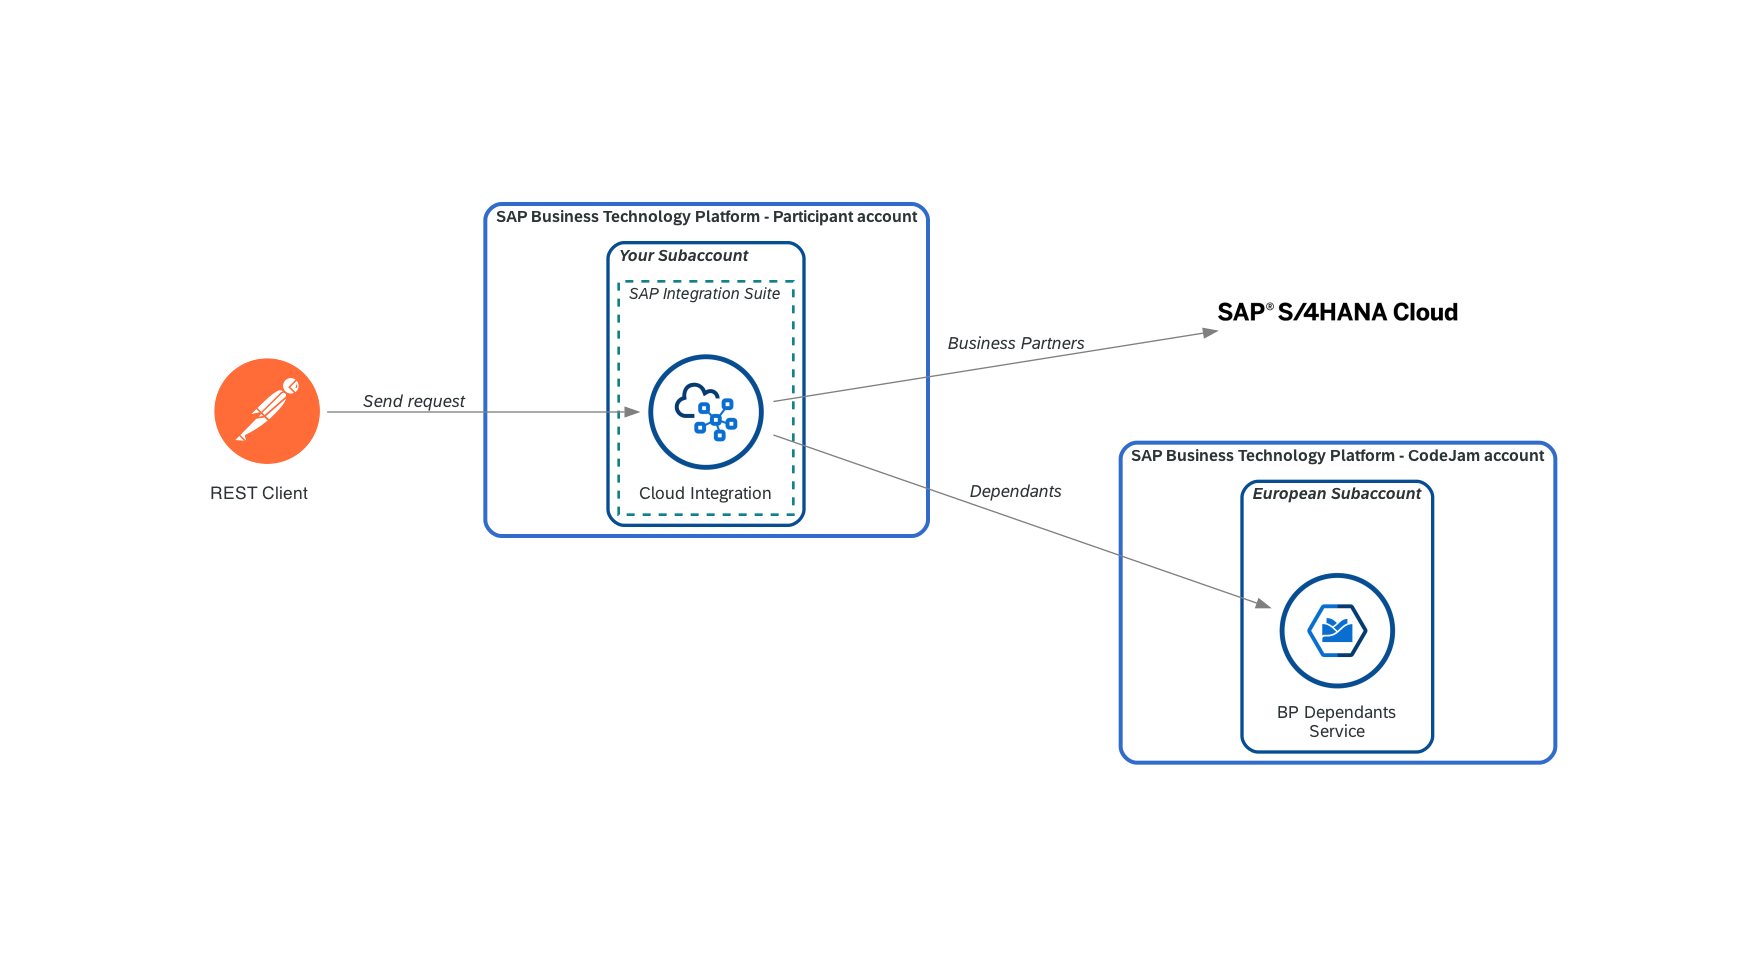
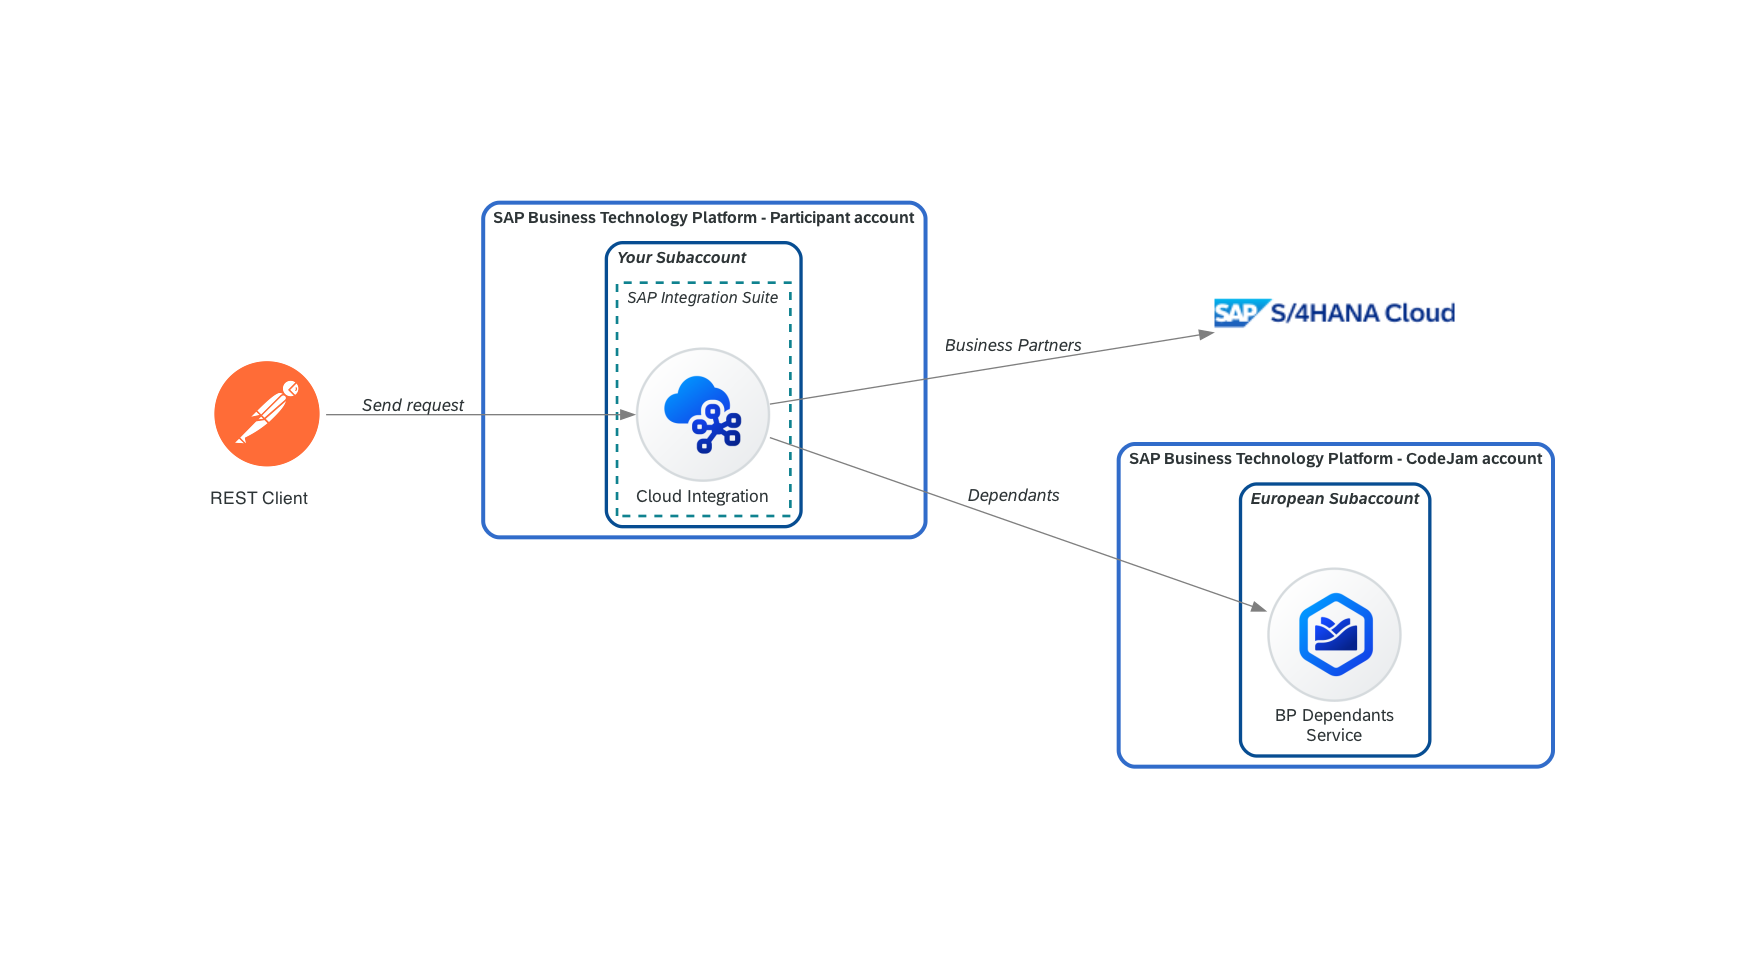
Updating diagrams to latest version

diff --git a/exercises/04.1-retrieve-bp-dependants/assets/diagrams/bp-diagram.py b/exercises/04.1-retrieve-bp-dependants/assets/diagrams/bp-diagram.py
@@ -1,13 +1,9 @@
 # tech-byte-diagram.py
-from diagrams import Cluster, Diagram, Edge, Node
-from diagrams.onprem.compute import Server
-from diagrams.generic.compute import Rack
-from diagrams.generic.place import Datacenter
+from diagrams import Cluster, Diagram, Edge
 from diagrams.custom import Custom
-from diagrams.sap.other import Placeholder_Circle
-from diagrams.sap.integration import ProcessIntegration_Circle, OpenConnectors_Circle, APIManagement_Circle
-from diagrams.sap.runtimes import KymaRuntime_Circle
-from diagrams.sap.erp import SAPS4HANACloud
+from diagrams.sap.integration_suite import CloudIntegration, OpenConnectors, APIManagement
+from diagrams.sap.foundational import SAPBTPKymaRuntime
+from diagrams.sap.brands import SAPS4HANACloud
 
 # SAP BTP Solution Diagrams and Icons guidelines colors
 L0_BLUE_COLOUR = "#316CCA"
@@ -32,12 +28,12 @@ with Diagram("", show=False, filename="bp_data_flow", graph_attr={"splines": "tr
 
     with Cluster("SAP Business Technology Platform - CodeJam account", graph_attr=GLOBALACCOUNT_GRAPH_ATTR):
         with Cluster("European Subaccount", graph_attr=SUBACCOUNT_GRAPH_ATTR):
-            european_service = KymaRuntime_Circle("BP Dependants\nService", **NODE_LABEL)
+            european_service = SAPBTPKymaRuntime("BP Dependants\nService", **NODE_LABEL)
             
     with Cluster("SAP Business Technology Platform - Participant account", graph_attr=GLOBALACCOUNT_GRAPH_ATTR):
         with Cluster("Your Subaccount", graph_attr=SUBACCOUNT_GRAPH_ATTR):
             with Cluster("SAP Integration Suite", graph_attr=PRIMARY_EMPHASIZE_AREA_GRAPH_ATTR):
-                cloud_integration = ProcessIntegration_Circle("Cloud Integration", **NODE_LABEL)
+                cloud_integration = CloudIntegration("Cloud Integration", **NODE_LABEL)
                 
                 cloud_integration >> Edge(label="Business Partners", **EDGE_LABEL) >> sap_server
 

diff --git a/assets/diagrams/final-diagram.py b/assets/diagrams/final-diagram.py
@@ -2,10 +2,10 @@
 from diagrams import Cluster, Diagram, Edge
 from diagrams.onprem.compute import Server
 from diagrams.custom import Custom
-from diagrams.sap.integration import CloudIntegration, OpenConnectors, APIManagement
-from diagrams.sap.runtimes import KymaRuntime
+from diagrams.sap.integration_suite import CloudIntegration, APIManagement
+from diagrams.sap.foundational import SAPBTPKymaRuntime
 from diagrams.saas.chat import Slack
-from diagrams.sap.erp import SAPS4HANACloud
+from diagrams.sap.brands import SAPS4HANACloud
 
 # SAP BTP Solution Diagrams and Icons guidelines colors
 L0_BLUE_COLOUR = "#316CCA"
@@ -32,10 +32,10 @@ with Diagram("", show=False, filename="final_data_flow", graph_attr={"splines": 
 
     with Cluster("SAP Business Technology Platform - CodeJam account", graph_attr=GLOBALACCOUNT_GRAPH_ATTR):
         with Cluster("Americas subaccount", graph_attr=SUBACCOUNT_GRAPH_ATTR):
-            americas_service = KymaRuntime("BP Dependants\nService", **NODE_LABEL)
+            americas_service = SAPBTPKymaRuntime("BP Dependants\nService", **NODE_LABEL)
 
         with Cluster("European subaccount", graph_attr=SUBACCOUNT_GRAPH_ATTR):
-            european_service = KymaRuntime("BP Dependants\nService", **NODE_LABEL)
+            european_service = SAPBTPKymaRuntime("BP Dependants\nService", **NODE_LABEL)
             
     with Cluster("SAP Business Technology Platform - Participant account", graph_attr=GLOBALACCOUNT_GRAPH_ATTR):
         with Cluster("Your subaccount", graph_attr=SUBACCOUNT_GRAPH_ATTR):

diff --git a/exercises/05-log-requests-in-slack/assets/diagrams/slack-diagram.py b/exercises/05-log-requests-in-slack/assets/diagrams/slack-diagram.py
@@ -1,9 +1,9 @@
 from diagrams import Cluster, Diagram, Edge, Node
 from diagrams.custom import Custom
-from diagrams.sap.integration import CloudIntegration
-from diagrams.sap.runtimes import KymaRuntime
+from diagrams.sap.integration_suite import CloudIntegration
+from diagrams.sap.foundational import SAPBTPKymaRuntime
 from diagrams.saas.chat import Slack
-from diagrams.sap.erp import SAPS4HANACloud
+from diagrams.sap.brands import SAPS4HANACloud
 
 # SAP BTP Solution Diagrams and Icons guidelines colors
 L0_BLUE_COLOUR = "#316CCA"
@@ -29,10 +29,10 @@ with Diagram("", show=False, filename="slack_data_flow", graph_attr={"splines": 
 
     with Cluster("SAP Business Technology Platform - CodeJam account", graph_attr=GLOBALACCOUNT_GRAPH_ATTR):
         with Cluster("European subaccount", graph_attr=SUBACCOUNT_GRAPH_ATTR):
-            european_service = KymaRuntime("BP Dependants\nService", **NODE_LABEL)
+            european_service = SAPBTPKymaRuntime("BP Dependants\nService", **NODE_LABEL)
         
         with Cluster("Americas subaccount", graph_attr=SUBACCOUNT_GRAPH_ATTR):
-            americas_service = KymaRuntime("BP Dependants\nService", **NODE_LABEL)
+            americas_service = SAPBTPKymaRuntime("BP Dependants\nService", **NODE_LABEL)
             
     with Cluster("SAP Business Technology Platform - Participant account", graph_attr=GLOBALACCOUNT_GRAPH_ATTR):
         with Cluster("Your subaccount", graph_attr=SUBACCOUNT_GRAPH_ATTR):
